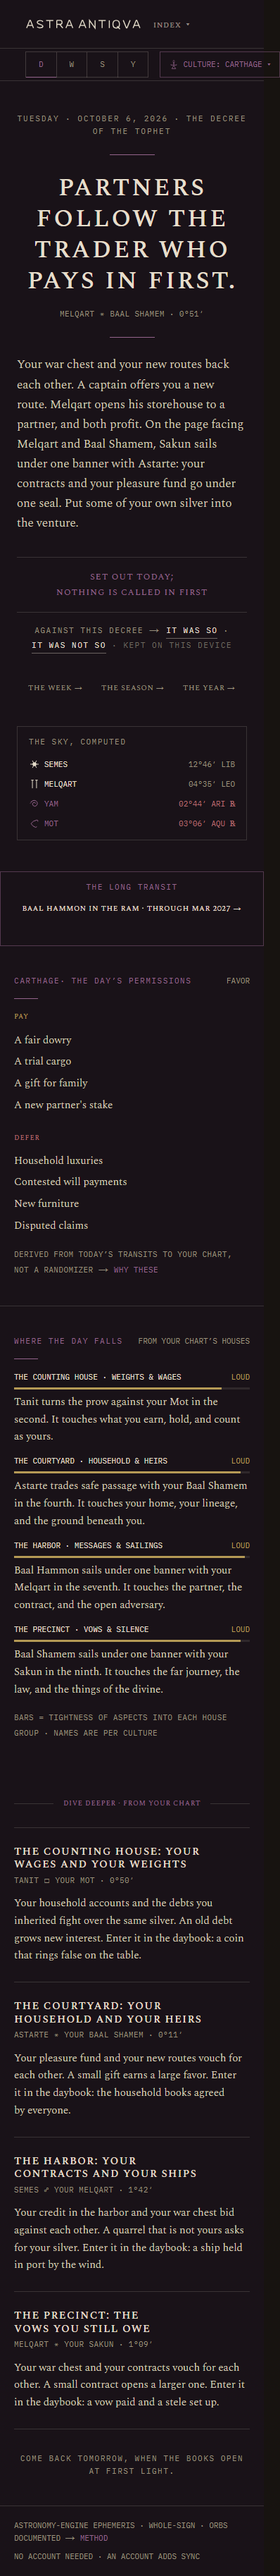
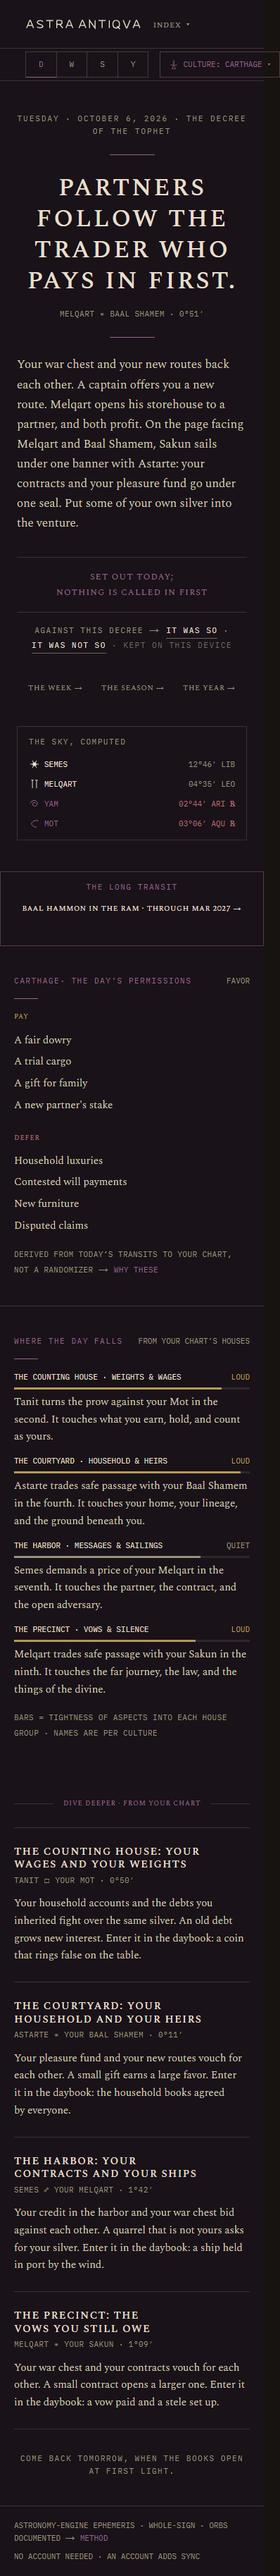
fix(web): one page names one contact per group
Where the day falls and the dive deeper rank a group's contacts with one
helper, rankContacts: a body that moves daily first, a body against its
own natal place last within its speed, then by orb. Both modules name
the same contact, and the pressure level reads it too.

A dive deeper line no longer repeats a line on its page, whole or inside
a longer sentence: the headline, the decree's sentences, the second
figure and the day pressure lines all count. Without a chart, no two
groups read one sky figure; a group whose figures are taken prints its
quiet line.

The Greek consequence for Venus in opposition no longer repeats the
relation's "opposite". The Greek and Roman frames read every
manifestation as a plain thing to meet: "Look for ..." and "Watch for
...". The twenty phase12 captures are retaken.

Changed region(s): [[0.0603, 0.5928, 0.8744, 0.6552]]

diff --git a/web/src/lib/diveDeeper.ts b/web/src/lib/diveDeeper.ts
@@ -8,7 +8,6 @@ import {
   composeDayPage,
   composeEvidence,
   dayFigures,
-  FAST_ORDER,
   headlineBody,
   pairClause,
   toneForKind,
@@ -17,7 +16,7 @@ import {
   type DayFigure,
 } from "@/lib/decree";
 import { composeBridge, DOMAIN_GROUP, type NatalPoints } from "@/lib/figureReading";
-import { transitsByGroup } from "@/lib/dayPressure";
+import { rankContacts, transitsByGroup } from "@/lib/dayPressure";
 import { computeChart } from "@/lib/ephemeris";
 
 /**
@@ -76,17 +75,25 @@ const cap = (s: string): string => s.charAt(0).toUpperCase() + s.slice(1);
 const fill = (template: string, slots: Readonly<Record<string, string>>): string =>
   template.replace(/\{(\w+)\}/g, (whole, key: string) => slots[key] ?? whole);
 
-const FAST: ReadonlySet<Planet> = new Set(FAST_ORDER);
+/**
+ * True when a line, or a clause inside a longer sentence (the second-figure
+ * sentence carries a meaning clause after its colon), is already on the page.
+ */
+function onPage(line: string, printed: ReadonlySet<string>): boolean {
+  const needle = line.replace(/\.$/, "").toLowerCase();
+  for (const s of printed) if (s.toLowerCase().includes(needle)) return true;
+  return false;
+}
 
 /** The words of five letters or more in a line, lowercased. */
 const longWords = (line: string): Set<string> => new Set(line.toLowerCase().match(/[a-z']{5,}/g) ?? []);
 
 /**
  * The relation sentence for a group. Groups alternate between the two
- * variants the decree does not use today, then the day's own variant, which
- * is skipped when the sentence it makes is on the page already (the decree's
- * meaning sentence names the same two domains in that variant). Of those, the
- * group takes the first that shares the fewest words with the consequence.
+ * variants the decree does not use today, then the day's own variant. A
+ * choice whose clause is on the page already, alone or inside a longer
+ * sentence, is skipped. Of the rest, the group takes the first that shares
+ * the fewest words with the consequence.
  */
 function relationSentence(
   culture: Culture,
@@ -103,7 +110,7 @@ function relationSentence(
     shared: [...longWords(relations[((d % 3) + 3) % 3]!)].filter((w) => echo.has(w)).length,
     sentence: `${cap(pairClause(culture, domains[reading.first], domains[reading.second], reading.kind, d))}.`,
   }));
-  const fresh = choices.filter((c) => !printed.has(c.sentence));
+  const fresh = choices.filter((c) => !onPage(c.sentence, printed));
   const pool = fresh.length ? fresh : choices;
   return pool.reduce((best, c) => (c.shared < best.shared ? c : best)).sentence;
 }
@@ -123,7 +130,7 @@ function composeGroup(
   const consequence = reading.keys
     .filter((k): k is PartnerBody => k !== "moon")
     .map((k) => consequences[k])
-    .find((line) => !printed.has(line));
+    .find((line) => !onPage(line, printed));
   const sentences: string[] = [];
   // A body against its own natal place reads one domain twice; the contact
   // then speaks through its consequence alone.
@@ -138,12 +145,15 @@ function composeGroup(
   return { title, evidence: reading.evidence, sentences, quiet: false };
 }
 
-/** Without a chart: each group's tightest sky figure, one group to a figure while another is free. */
+/**
+ * Without a chart: each group's tightest sky figure that no earlier group
+ * reads. A group whose figures are all taken prints its quiet line.
+ */
 function skyReadings(culture: Culture, figures: readonly DayFigure[]): (GroupReading | null)[] {
   const used = new Set<DayFigure>();
   return ([0, 1, 2, 3] as const).map((group) => {
     const touching = figures.filter((f) => DOMAIN_GROUP[f.a] === group || DOMAIN_GROUP[f.b] === group);
-    const f = touching.find((x) => !used.has(x)) ?? touching[0];
+    const f = touching.find((x) => !used.has(x));
     if (!f) return null;
     used.add(f);
     const { body, partner } = headlineBody(f.a, f.b);
@@ -158,7 +168,9 @@ function skyReadings(culture: Culture, figures: readonly DayFigure[]): (GroupRea
  * holds for months and belongs to the long transits, so the day page reads it
  * only when nothing faster touches the group. A body against its own natal
  * place comes after the other contacts of its speed, and the Moon against the
- * natal Moon is left out, since neither keys a consequence.
+ * natal Moon last of all; when that is all there is, the group is quiet. The
+ * ranking is the day pressure module's (rankContacts), so both name one
+ * contact per group.
  */
 function natalReadings(
   culture: Culture,
@@ -166,19 +178,9 @@ function natalReadings(
   natal: NatalPoints,
 ): (GroupReading | null)[] {
   return transitsByGroup(natal.chart, natal.ascendant, sky).map((hits) => {
-    const ranked = hits
-      .filter((h) => !(h.transit === "moon" && h.natal === "moon"))
-      .map((h, i) => ({ h, i }))
-      .sort(
-        (x, y) =>
-          Number(!FAST.has(x.h.transit)) - Number(!FAST.has(y.h.transit)) ||
-          Number(x.h.transit === x.h.natal) - Number(y.h.transit === y.h.natal) ||
-          x.h.orb - y.h.orb ||
-          x.i - y.i,
-      )
-      .map(({ h }) => h);
-    const h = ranked[0];
-    if (!h) return null;
+    // The same ranking the day pressure module reads, so both name one contact.
+    const h = rankContacts(hits)[0];
+    if (!h || (h.transit === "moon" && h.natal === "moon")) return null;
     return {
       first: h.transit,
       second: h.natal,
@@ -193,18 +195,21 @@ function natalReadings(
 
 /**
  * The four paragraphs for a day page. `sky` is the chart at 00:00 UTC of the
- * day, `day` its UTC day number, `decree` the page's decree (its sentences
- * are not printed again), `natal` the reader's chart or null.
+ * day, `day` its UTC day number, `decree` the page's decree (its headline and
+ * sentences are not printed again), `natal` the reader's chart or null, and
+ * `pageLines` any other line the page prints above (the day pressure
+ * module's sentences).
  */
 export function composeDiveDeeper(
   culture: Culture,
-  decree: Pick<DayDecree, "sentences">,
+  decree: Pick<DayDecree, "headline" | "sentences">,
   sky: Readonly<Record<Planet, Longitude>>,
   day: number,
   natal: NatalPoints | null,
+  pageLines: readonly string[] = [],
 ): DiveDeeper {
   const readings = natal ? natalReadings(culture, sky, natal) : skyReadings(culture, dayFigures(sky));
-  const printed = new Set(decree.sentences);
+  const printed = new Set([decree.headline, ...decree.sentences, ...pageLines]);
   return {
     groups: readings.map((r, g) => composeGroup(culture, g as 0 | 1 | 2 | 3, r, day, printed)),
     natal: Boolean(natal),

diff --git a/web/src/lib/diveDeeper.test.ts b/web/src/lib/diveDeeper.test.ts
@@ -12,7 +12,8 @@ import { DEITY_MATRIX } from "@/data/deities";
 import { PERMISSIONS_REGISTER } from "@/data/permissionsRegister";
 import { CULTURES, PLANETS, type Culture, type Planet } from "@/data/cultures";
 import { toneOf } from "@/lib/tone";
-import { transitsByGroup } from "@/lib/dayPressure";
+import { dayPressure, rankContacts, transitsByGroup } from "@/lib/dayPressure";
+import type { SavedNatal } from "@/lib/savedNatal";
 
 const DAY_MS = 86_400_000;
 const FAST: ReadonlySet<Planet> = new Set(["sun", "moon", "mercury", "venus", "mars"]);
@@ -92,20 +93,56 @@ test("the concrete frame shares no word with the things it carries", () => {
   }
 });
 
-test("no sentence prints twice on one day page, the decree included", () => {
+test("no dive deeper line repeats a line on its page, whole or inside a longer sentence", () => {
+  // Over the window the two known repeats fell in (2026-11-26 Egypt, 2027-03-11 Rome).
+  const window = Array.from({ length: 200 }, (_, i) => new Date(START + i * DAY_MS));
+  const saved = { chart: NATAL.chart, angles: { ascendant: NATAL.ascendant } } as unknown as SavedNatal;
   for (const culture of CULTURES) {
-    for (const date of days(60)) {
+    for (const date of window) {
+      const day = utcDayNumber(date);
+      const sky = computeChart(new Date(day * DAY_MS));
+      const decree = composeDayPage(culture, date);
       for (const natal of [null, NATAL]) {
-        const decree = composeDayPage(culture, date);
-        const dd = composeDiveDeeperForDay(culture, date, natal);
-        const all = [...decree.sentences, ...dd.groups.filter((g) => !g.quiet).flatMap((g) => g.sentences)];
-        const seen = new Set<string>();
-        for (const s of all) {
-          assert.ok(!seen.has(s), `${culture} ${date.toISOString().slice(0, 10)} ${natal ? "natal" : "sky"}: "${s}" twice`);
-          seen.add(s);
+        const pressure = natal ? dayPressure(saved, sky, culture).map((g) => g.sentence) : [];
+        const dd = composeDiveDeeper(culture, decree, sky, day, natal, pressure);
+        const own = dd.groups.filter((g) => !g.quiet).flatMap((g) => g.sentences);
+        const page = [decree.headline, ...decree.sentences, ...pressure, ...own];
+        for (const line of own) {
+          const needle = line.replace(/\.$/, "").toLowerCase();
+          const holders = page.filter((s) => s.toLowerCase().includes(needle));
+          assert.equal(holders.length, 1, `${culture} ${date.toISOString().slice(0, 10)} ${natal ? "natal" : "sky"}: "${line}" also in ${JSON.stringify(holders.filter((h) => h !== line))}`);
         }
       }
     }
+  }
+});
+
+test("without a chart, no two groups read one sky figure", () => {
+  for (const culture of CULTURES) {
+    for (const date of days(200)) {
+      const read = composeDiveDeeperForDay(culture, date, null).groups.filter((g) => !g.quiet).map((g) => g.evidence);
+      assert.equal(new Set(read).size, read.length, `${culture} ${date.toISOString().slice(0, 10)}: ${read.join(" / ")}`);
+    }
+  }
+});
+
+test("the day pressure module and the dive deeper name one contact per group", () => {
+  const saved = { chart: NATAL.chart, angles: { ascendant: NATAL.ascendant } } as unknown as SavedNatal;
+  for (const date of days(120)) {
+    const sky = computeChart(date);
+    const buckets = transitsByGroup(NATAL.chart, NATAL.ascendant, sky);
+    const pressure = dayPressure(saved, sky, "rome");
+    const dd = composeDiveDeeperForDay("rome", date, NATAL);
+    buckets.forEach((hits, i) => {
+      const top = rankContacts(hits)[0];
+      if (!top) return;
+      const t = DEITY_MATRIX.rome[top.transit].name;
+      const n = DEITY_MATRIX.rome[top.natal].name;
+      assert.ok(pressure[i]!.sentence.startsWith(`${t} `) && pressure[i]!.sentence.includes(`your ${n} in`), pressure[i]!.sentence);
+      if (!(top.transit === "moon" && top.natal === "moon")) {
+        assert.ok(dd.groups[i]!.evidence.startsWith(`${t.toUpperCase()} `) && dd.groups[i]!.evidence.includes(`YOUR ${n.toUpperCase()} ·`), dd.groups[i]!.evidence);
+      }
+    });
   }
 });
 

diff --git a/web/src/lib/dayPressure.ts b/web/src/lib/dayPressure.ts
@@ -70,10 +70,32 @@ function ordinal(house: number): string {
   return ORDINAL_WORDS[house] ?? `${house}th`;
 }
 
+const FAST_TRANSITS: ReadonlySet<Planet> = new Set(["moon", "sun", "mercury", "venus", "mars"]);
+
+/**
+ * A group's contacts in the order the day page reads them, so the day
+ * pressure module and the dive deeper name the same contact: a body that
+ * moves daily before a slow one (a slow body's contact holds for months and
+ * belongs to the long transits), a body against its own natal place after
+ * the other contacts of its speed, then by orb. The Moon against the natal
+ * Moon comes last of all: it keys no consequence, so the dive deeper reads
+ * the group as quiet when nothing else touches it.
+ */
+export function rankContacts(hits: readonly TransitAspect[]): TransitAspect[] {
+  const key = (h: TransitAspect): [number, number, number] => [
+    h.transit === "moon" && h.natal === "moon" ? 1 : 0,
+    FAST_TRANSITS.has(h.transit) ? 0 : 1,
+    h.transit === h.natal ? 1 : 0,
+  ];
+  return hits
+    .map((h, i) => ({ h, i, k: key(h) }))
+    .sort((x, y) => x.k[0] - y.k[0] || x.k[1] - y.k[1] || x.k[2] - y.k[2] || x.h.orb - y.h.orb || x.i - y.i)
+    .map(({ h }) => h);
+}
+
 function levelFor(hits: readonly TransitAspect[]): PressureLevel {
   if (hits.length === 0) return "quiet";
-  const sorted = [...hits].sort((a, b) => a.orb - b.orb);
-  const tightest = sorted[0]!;
+  const tightest = rankContacts(hits)[0]!;
   if (tightest.orb < 1.5) return "loud";
   const tensionCount = hits.filter((h) => toneOf(h.kind) === "tension").length;
   if (tightest.orb < 4 && tensionCount > hits.length / 2) return "strained";
@@ -132,7 +154,8 @@ export function dayPressure(
       };
     }
 
-    const tightest = [...groupHits].sort((a, b) => a.orb - b.orb)[0]!;
+    // The contact the dive deeper reads for this group (rankContacts).
+    const tightest = rankContacts(groupHits)[0]!;
     const tDeity = DEITY_MATRIX[culture][tightest.transit];
     const nDeity = DEITY_MATRIX[culture][tightest.natal];
     const verb = ASPECT_VERBS[culture][tightest.kind];

diff --git a/web/src/data/diveDeeperBanks.ts b/web/src/data/diveDeeperBanks.ts
@@ -54,7 +54,7 @@ export const DIVE_DEEPER_BANKS: Readonly<Record<Culture, DiveDeeperBank>> = {
       "The herm stands alone at the crossroads today. Send your messages by the road you always take.",
       "The adyton is silent today. Keep your question for a day when the tripod speaks.",
     ],
-    concrete: "Take {thing} as Delphi's reply.",
+    concrete: "Look for {thing}.",
   },
   canaan: {
     titles: [
@@ -99,6 +99,6 @@ export const DIVE_DEEPER_BANKS: Readonly<Record<Culture, DiveDeeperBank>> = {
       "The road is clear today. Send the dispatches you planned.",
       "The templum gives no sign today. Leave the auspices alone and keep your vows.",
     ],
-    concrete: "Count {thing} as a sign.",
+    concrete: "Watch for {thing}.",
   },
 };

diff --git a/web/src/components/home/buildHomeBundle.ts b/web/src/components/home/buildHomeBundle.ts
@@ -312,8 +312,8 @@ export function buildHomeBundle(culture: Culture, now: Date, natal: SavedNatal |
   const natalPermissions = natal ? natalDayPermissions(culture, todayChart, natal.chart, day) : null;
   const permissions = natalPermissions ?? dayPermissions(culture, reading.figures, day);
   const natalPoints = natal ? { chart: natal.chart, ascendant: natal.angles.ascendant } : null;
-  const diveDeeper = composeDiveDeeper(culture, reading, todayChart, day, natalPoints);
   const pressureGroups = natal ? dayPressure(natal, todayChart, culture) : null;
+  const diveDeeper = composeDiveDeeper(culture, reading, todayChart, day, natalPoints, pressureGroups?.map((g) => g.sentence) ?? []);
 
   return {
     now,

diff --git a/web/src/data/decreeBanks.ts b/web/src/data/decreeBanks.ts
@@ -350,7 +350,7 @@ export const DECREE_BANKS: Readonly<Record<Culture, DecreeBank>> = {
       opposition: {
         sun: "Someone across the agora wants the same honor.",
         mercury: "Two people tell you two different stories.",
-        venus: "Two desires pull you in opposite directions.",
+        venus: "You want two things, and the agora lets you carry home one.",
         mars: "Someone wants a quarrel in the open.",
         jupiter: "The powerful want a price for their help.",
         saturn: "A deadline comes the other way down your road.",

diff --git a/docs/design/reading-voice.md b/docs/design/reading-voice.md
@@ -191,15 +191,18 @@ The paragraph is composed, not written, from banks the page already has:
    already printed on the page gives way to the other body's, or to none.
 3. **One concrete thing**, from the figure page's manifestations for the group
    and the tone, turned by the UTC day, in the culture's frame ("Reckon on
-   ...", "Take ... as Delphi's reply", "Be ready for ...", "Enter it in the
-   daybook: ...", "Count ... as a sign.").
+   ...", "Look for ...", "Be ready for ...", "Enter it in the daybook: ...",
+   "Watch for ..."). Every frame reads any manifestation as a plain thing to
+   meet, and shares no word with one.
 
 Without a chart a group reads the tightest sky figure with a body whose domain
-the group keeps, one group to a figure while another figure is free. With a
-chart it reads the tightest transit to a natal point in its houses (the day
-pressure module's buckets), from a body that moves daily when one touches the
-group. A group nothing touches prints the culture's quiet line for it, one of
-four. The come-back line closes the page under the dive deeper.
+the group keeps that no earlier group reads. With a chart it reads the contact
+the day pressure module names for the group (`rankContacts` in
+`lib/dayPressure.ts`: a body that moves daily first, a body against its own
+natal place last within its speed, then by orb), so the two modules agree. A
+group with nothing left to read prints the culture's quiet line for it, one of
+four. No dive deeper line repeats a line on the page, whole or inside a longer
+sentence. The come-back line closes the page under the dive deeper.
 
 ## The figure page
 
